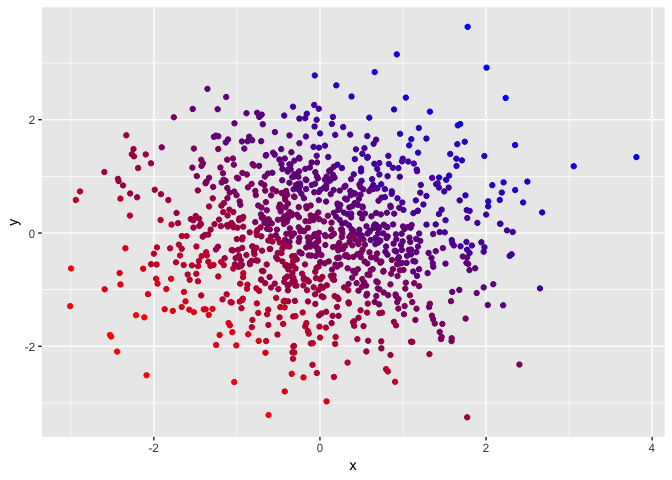
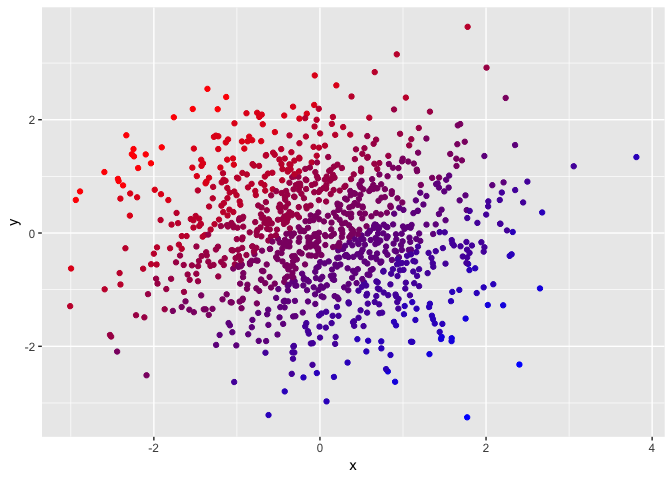
Finished up last of rough draft of the RMD

diff --git a/P8105_HW1_cbp2128.md b/P8105_HW1_cbp2128.md
@@ -171,6 +171,9 @@ data
 
 The size of the dataset is 1000, the mean is -0.0106382, the median is -0.031318, and the proportion of `TRUE` in the logical vector is 0.49.
 
+Data Visualizations
+-------------------
+
 ``` r
 ggplot(data = data) +
   geom_point(mapping = aes(x = x, y = y), 
@@ -185,7 +188,7 @@ gradient = colorRampPalette(c('red', 'blue'))
 
 ggplot(data = data) +
   geom_point(mapping = aes(x = x, y = y), 
-             col = gradient(10)[as.numeric(cut(data$x + data$y, breaks = 10))]
+             col = gradient(10)[as.numeric(cut(data$x - data$y, breaks = 10))]
              )
 ```
 
@@ -199,6 +202,8 @@ ggplot(data = data) +
 ```
 
 ![](P8105_HW1_cbp2128_files/figure-markdown_github/p2_plot_3-1.png)
+
+All of the color scales can end up looking the same since we're only looking at binary values (TRUE/FALSE, 0/1 for logical, 1/2 for factor). If we look at the gradient of values produced by `x + y`, then you'll see that the gradient forms along the diagonal due to the normal distribution of both `x` and `y`.
 
 ### Reminders for coding in R
 
